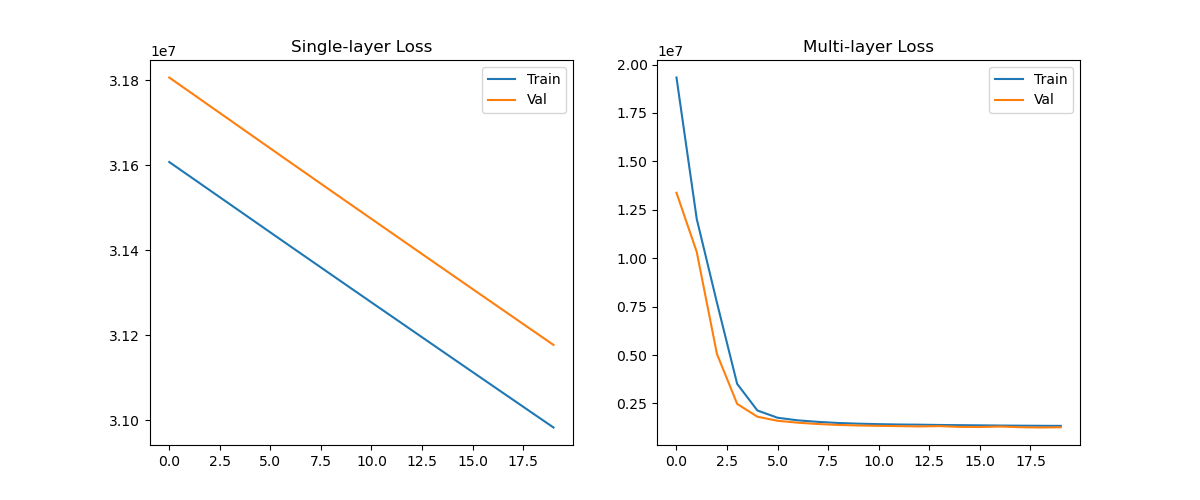
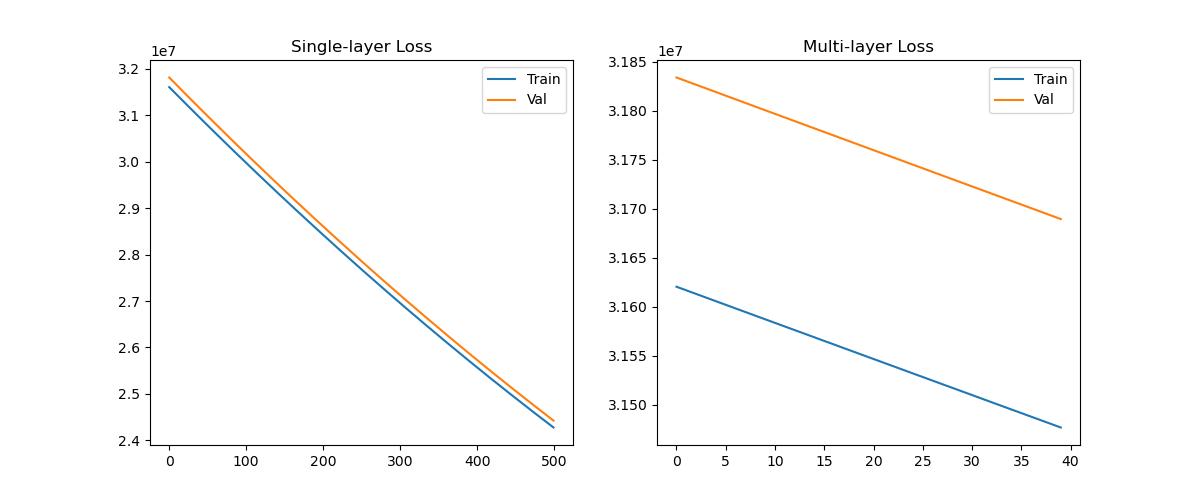
feat: update.

diff --git a/labs/lab1/src/main.py b/labs/lab1/src/main.py
@@ -67,15 +67,15 @@ X_test = scaler.transform(X_test)
 
 model_single = Sequential([Dense(1, input_dim=X_train.shape[1])])
 model_single.compile(optimizer='adam', loss='mean_squared_error')
-history_single = model_single.fit(X_train, y_train, epochs=20, validation_split=0.2, verbose=0)
+history_single = model_single.fit(X_train, y_train, epochs=500, batch_size=64, validation_split=0.2, verbose=0)
 
 model_multi = Sequential([
-    Dense(64, activation='relu', input_dim=X_train.shape[1]),
-    Dense(64, activation='relu'),
-    Dense(1)
+    Dense(3, activation='relu', input_dim=X_train.shape[1]),
+    Dense(3, activation='relu'),
+    Dense(1, activation='linear')
 ])
 model_multi.compile(optimizer='adam', loss='mean_squared_error')
-history_multi = model_multi.fit(X_train, y_train, epochs=20, validation_split=0.2, verbose=0)
+history_multi = model_multi.fit(X_train, y_train, epochs=40, batch_size=64, validation_split=0.2, verbose=0)
 
 plt.figure(figsize=(10, 5))
 plt.plot(history_multi.history['loss'], label='Train')
@@ -106,6 +106,6 @@ plt.close()
 y_p_s = model_single.predict(X_test)
 y_p_m = model_multi.predict(X_test)
 
-print("\n--- TEST RESULTS ---")
+print("\nТестове результты")
 print(f"SINGLE: MSE={model_single.evaluate(X_test, y_test, verbose=0):.2f}, MAE={mean_absolute_error(y_test, y_p_s):.2f}, R2={r2_score(y_test, y_p_s):.4f}")
 print(f"MULTI:  MSE={model_multi.evaluate(X_test, y_test, verbose=0):.2f}, MAE={mean_absolute_error(y_test, y_p_m):.2f}, R2={r2_score(y_test, y_p_m):.4f}")
